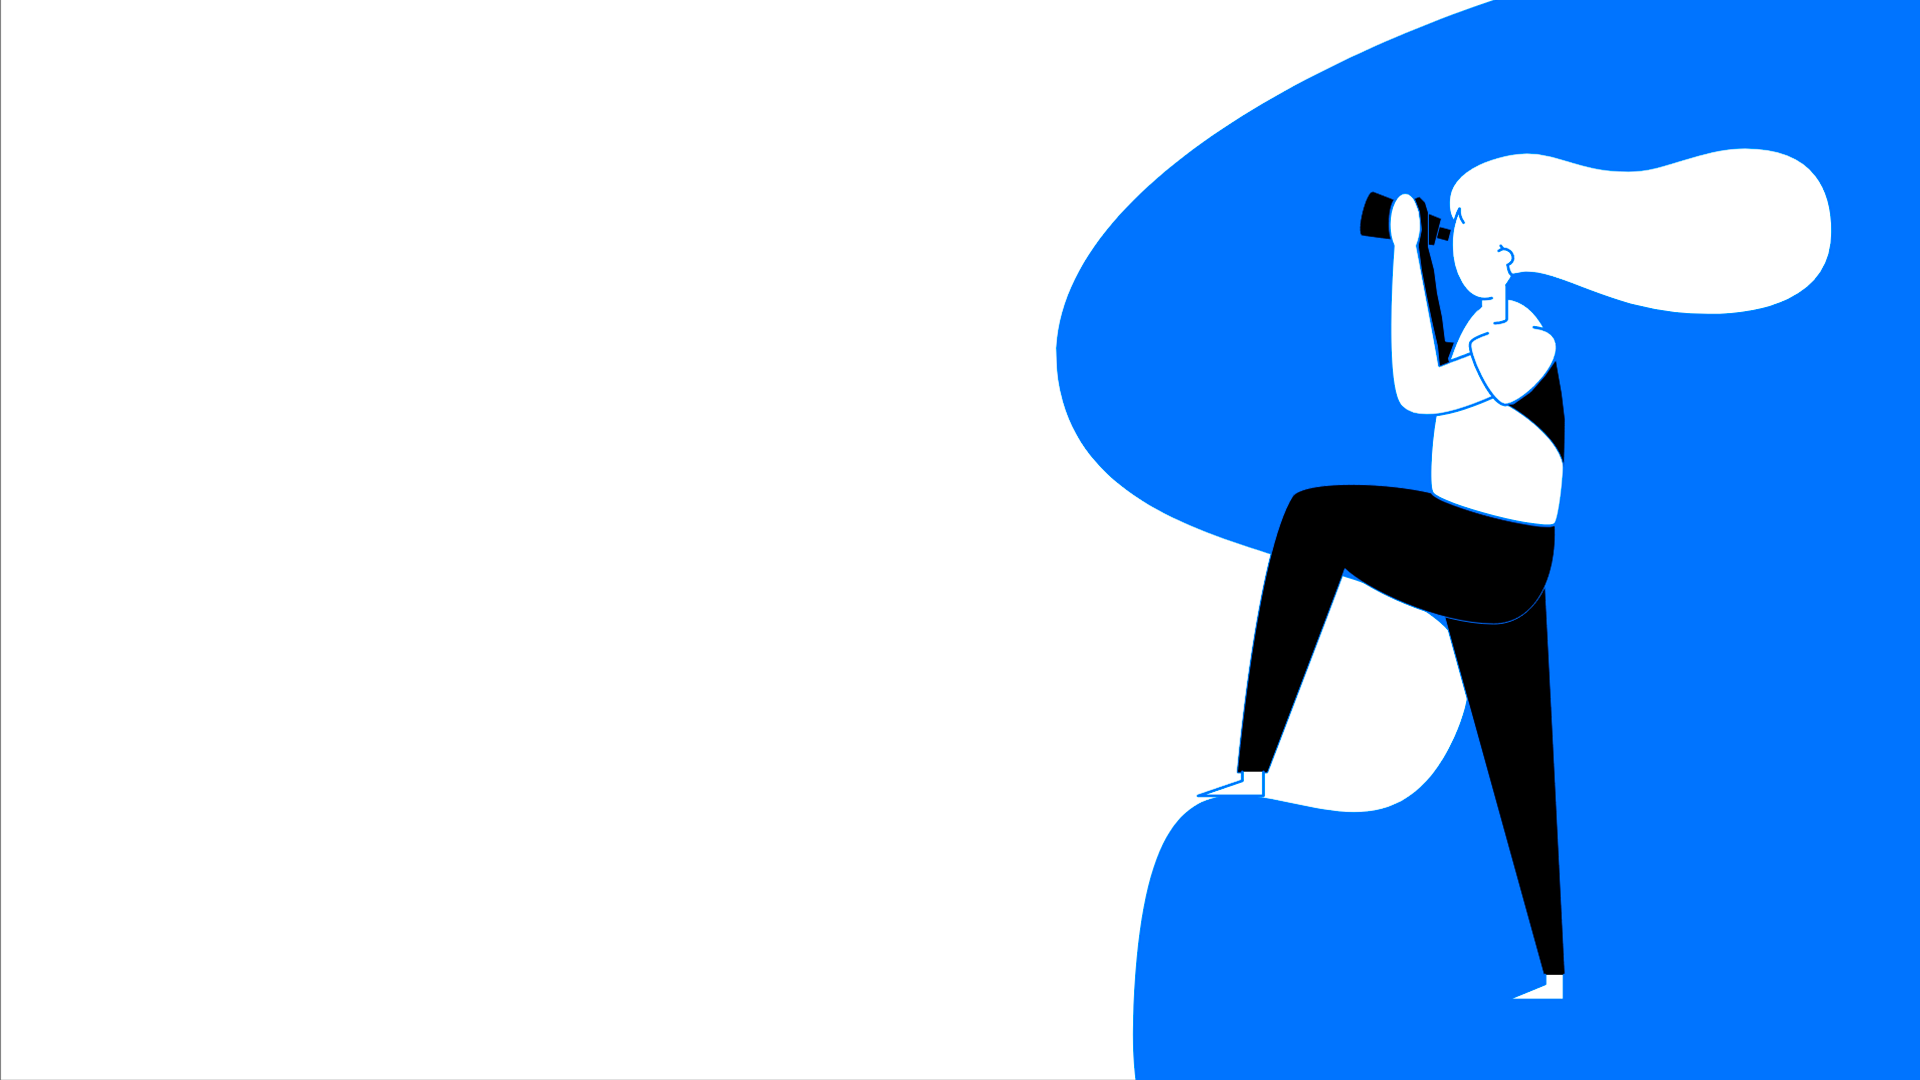
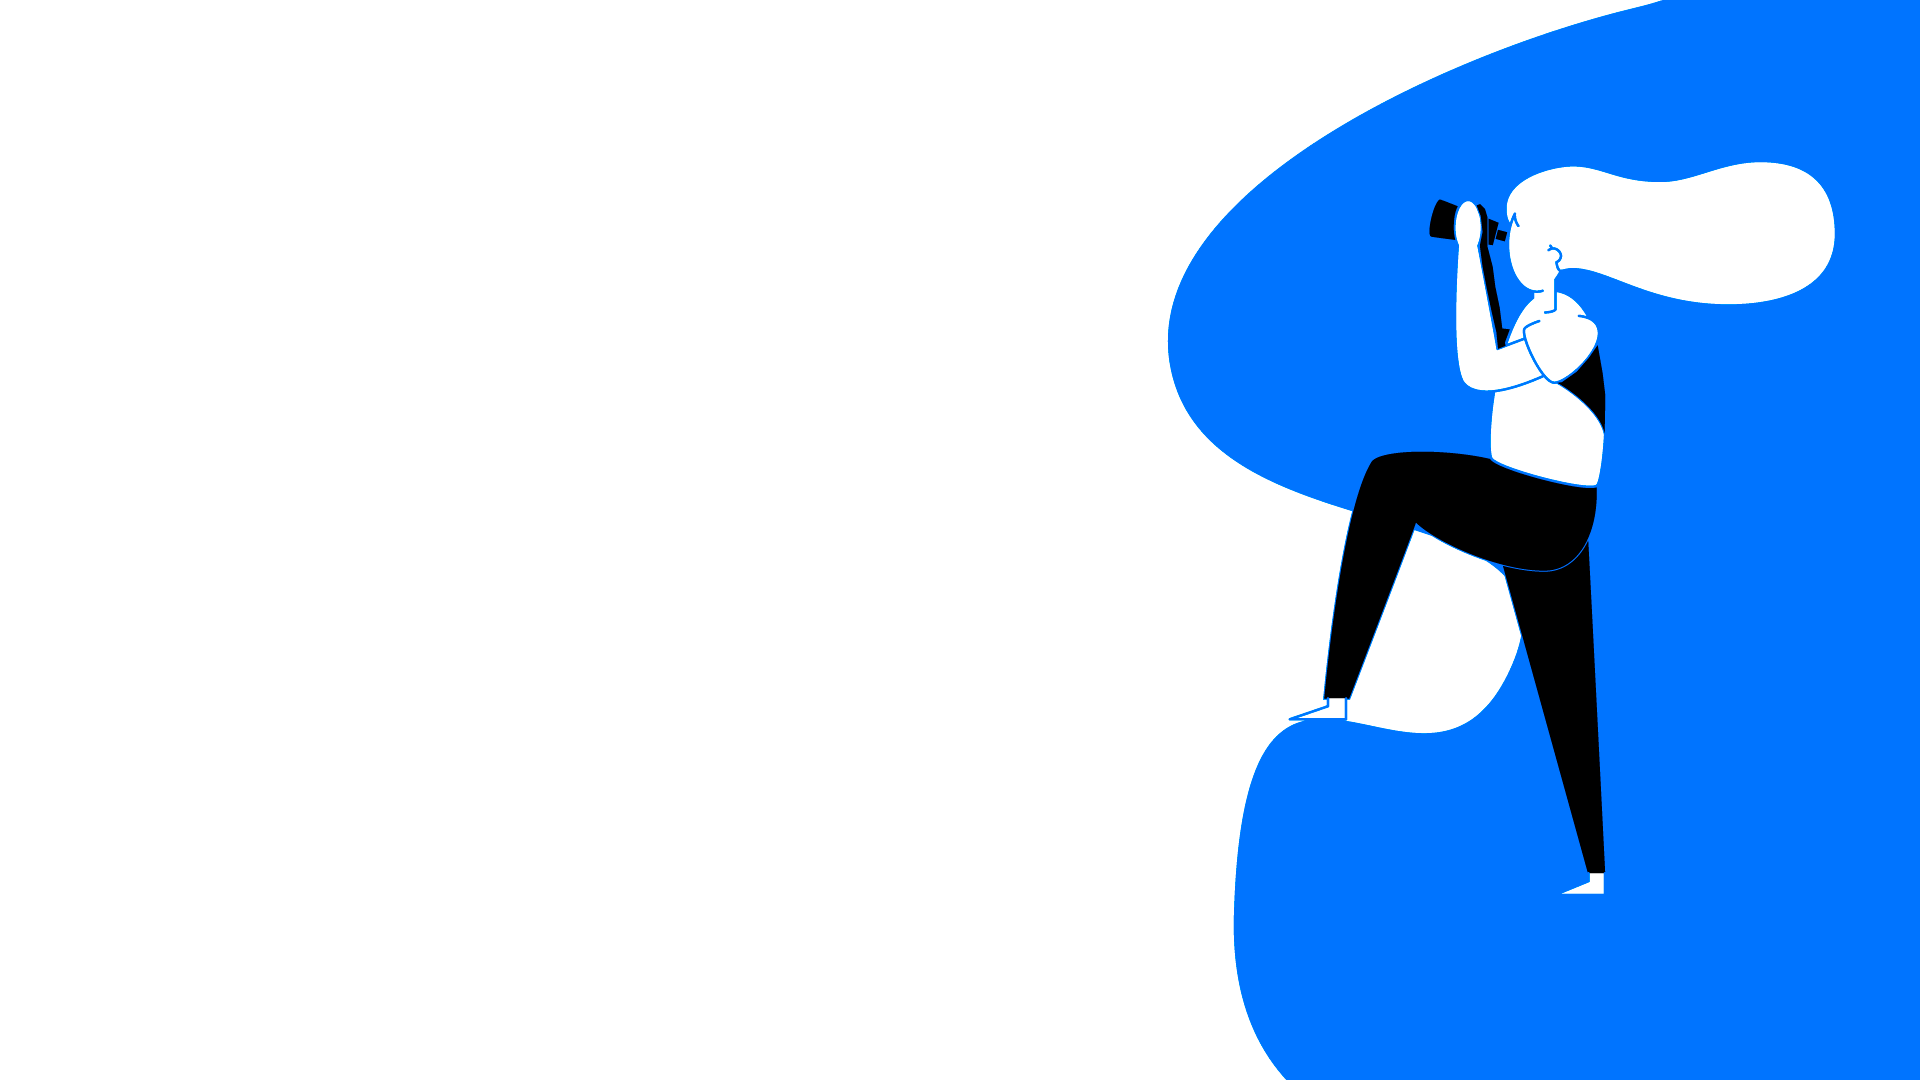
updated media queries

Changed region(s): [[0.5312, 0.0, 0.9375, 1.0], [0.8438, 0.1222, 0.9375, 0.1833]]

diff --git a/src/views/home/home.css b/src/views/home/home.css
@@ -3,8 +3,9 @@
     width: 100%;
 }
 
-#home-content{
-    background: url('../../assets/images/background-home.png') center/cover;
+#home-content {
+    background: url("../../assets/images/background-home.png") right/cover;
+    transition: background cubic-bezier(0.6, -0.28, 0.735, 0.045) 0.3s;
 }
 
 .shell-left {
@@ -19,13 +20,14 @@
 
 .title-home {
     color: var(--text-blue);
-    font-size: 55pt;
+    font-size: 9vh;
     width: 70%;
     margin: 0px;
     text-transform: uppercase;
+    margin-top: 60px;
 }
 
-.divider{
+.divider {
     width: 20vw;
     height: 20px;
     border-radius: 100px;
@@ -33,10 +35,11 @@
     margin-bottom: 60px;
 }
 
-.secondary-text-home{
+.secondary-text-home {
     color: var(--text-light-blue);
     width: 60%;
     font-size: 14pt;
+    text-align: justify;
 }
 
 .buttons-left-home {
@@ -44,7 +47,7 @@
     justify-content: center;
     align-items: center;
 }
-    
+
 .buttons-left-home > a {
     background: var(--text-blue);
     padding: 30px 20px;
@@ -56,15 +59,15 @@
     width: 100px;
     height: 100px;
     box-shadow: 0px 2px 37px rgba(0, 115, 255, 0.61);
-    transition: .3s;
+    transition: 0.3s;
 }
 
 .buttons-left-home > a > img {
     width: 70%;
 }
 
-.buttons-left-home > a:hover{
-    transform: scale(1.05)
+.buttons-left-home > a:hover {
+    transform: scale(1.05);
 }
 
 .text-left-home {
@@ -72,7 +75,39 @@
 }
 
 @media only screen and (max-width: 1440px) {
-    #home-content{
-        background: url('../../assets/images/background-home-md.png') center/cover;
+    #home-content {
+        background: url("../../assets/images/background-home-md.png")
+            right/cover;
+    }
+    .title-home {
+        font-size: 8vh;
+        width: 90%;
+    }
+}
+
+@media only screen and (max-width: 1366px) {
+    .title-home {
+        font-size: 35pt;
+        width: 90%;
+    }
+    .divider {
+        margin-bottom: 30px;
+    }
+    .text-left-home {
+        margin-bottom: 30px;
+    }
+    .secondary-text-home {
+        width: 80%;
+    }
+    .buttons-left-home > a {
+        width: 7vw;
+        height: 12vh;
+    }
+}
+
+@media only screen and (max-height: 800px) {
+    #home-content {
+        background: url("../../assets/images/background-home-smd.png")
+            right/cover;
     }
 }

diff --git a/src/views/home/index.js b/src/views/home/index.js
@@ -13,7 +13,7 @@ export default function Home() {
       <div className="shell-left">
         <div className="text-left-home">
           <h1 className="title-home">
-            Lorem ipsum dolor sit amet
+            Lorem ipsum<br/>dolor sit amet
           </h1>
           <div className="divider back-blue"></div>
           <p className="secondary-text-home">
